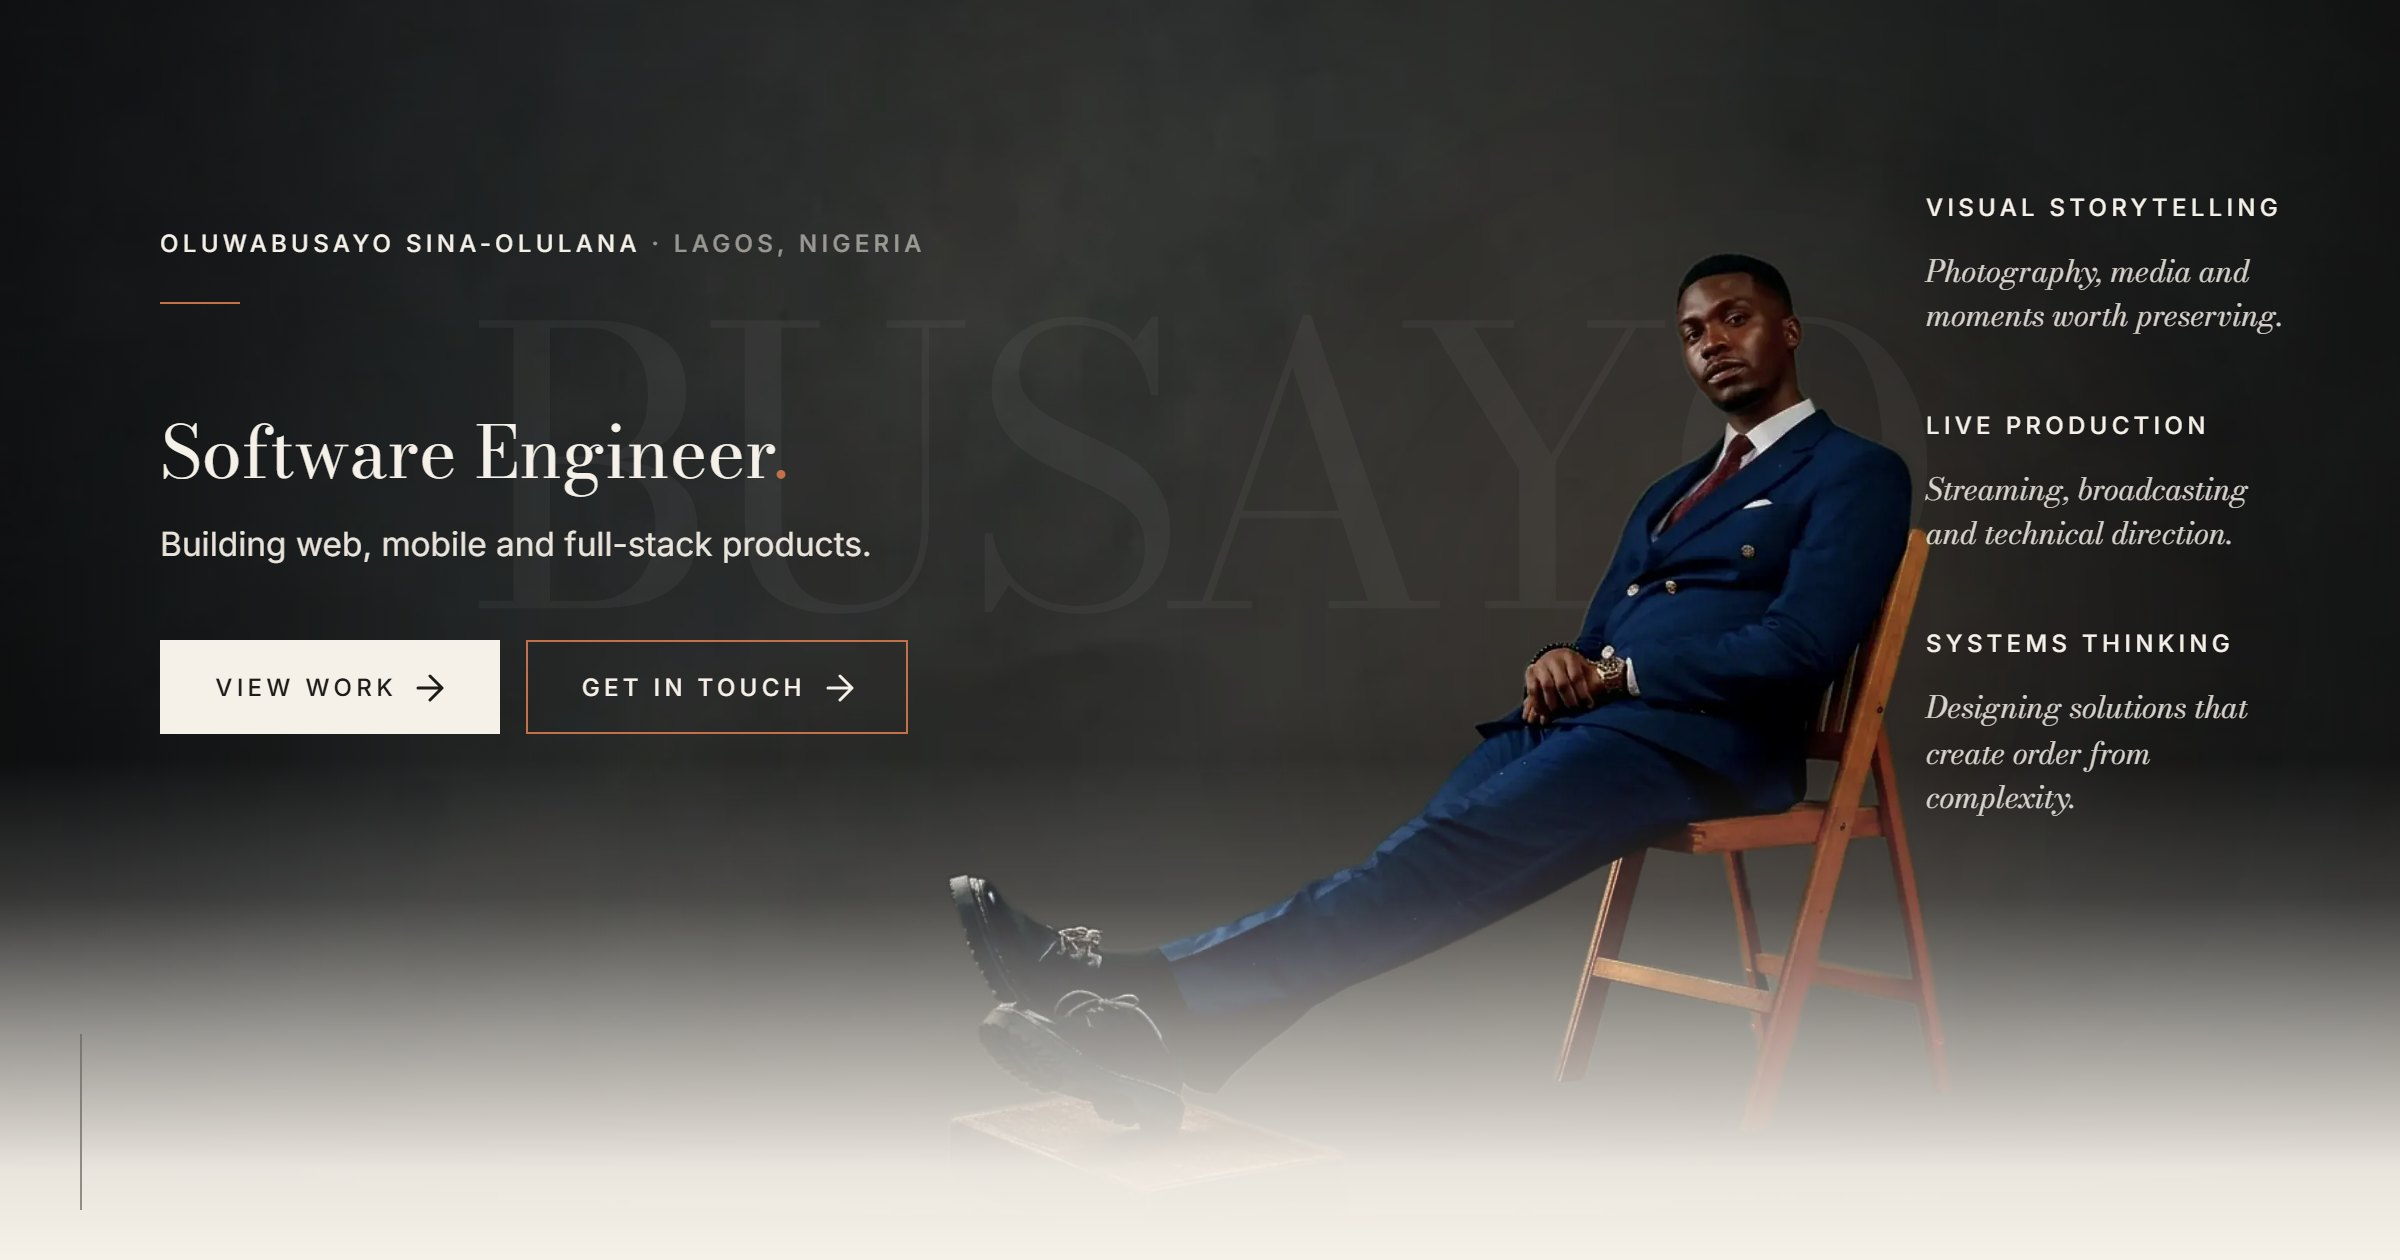
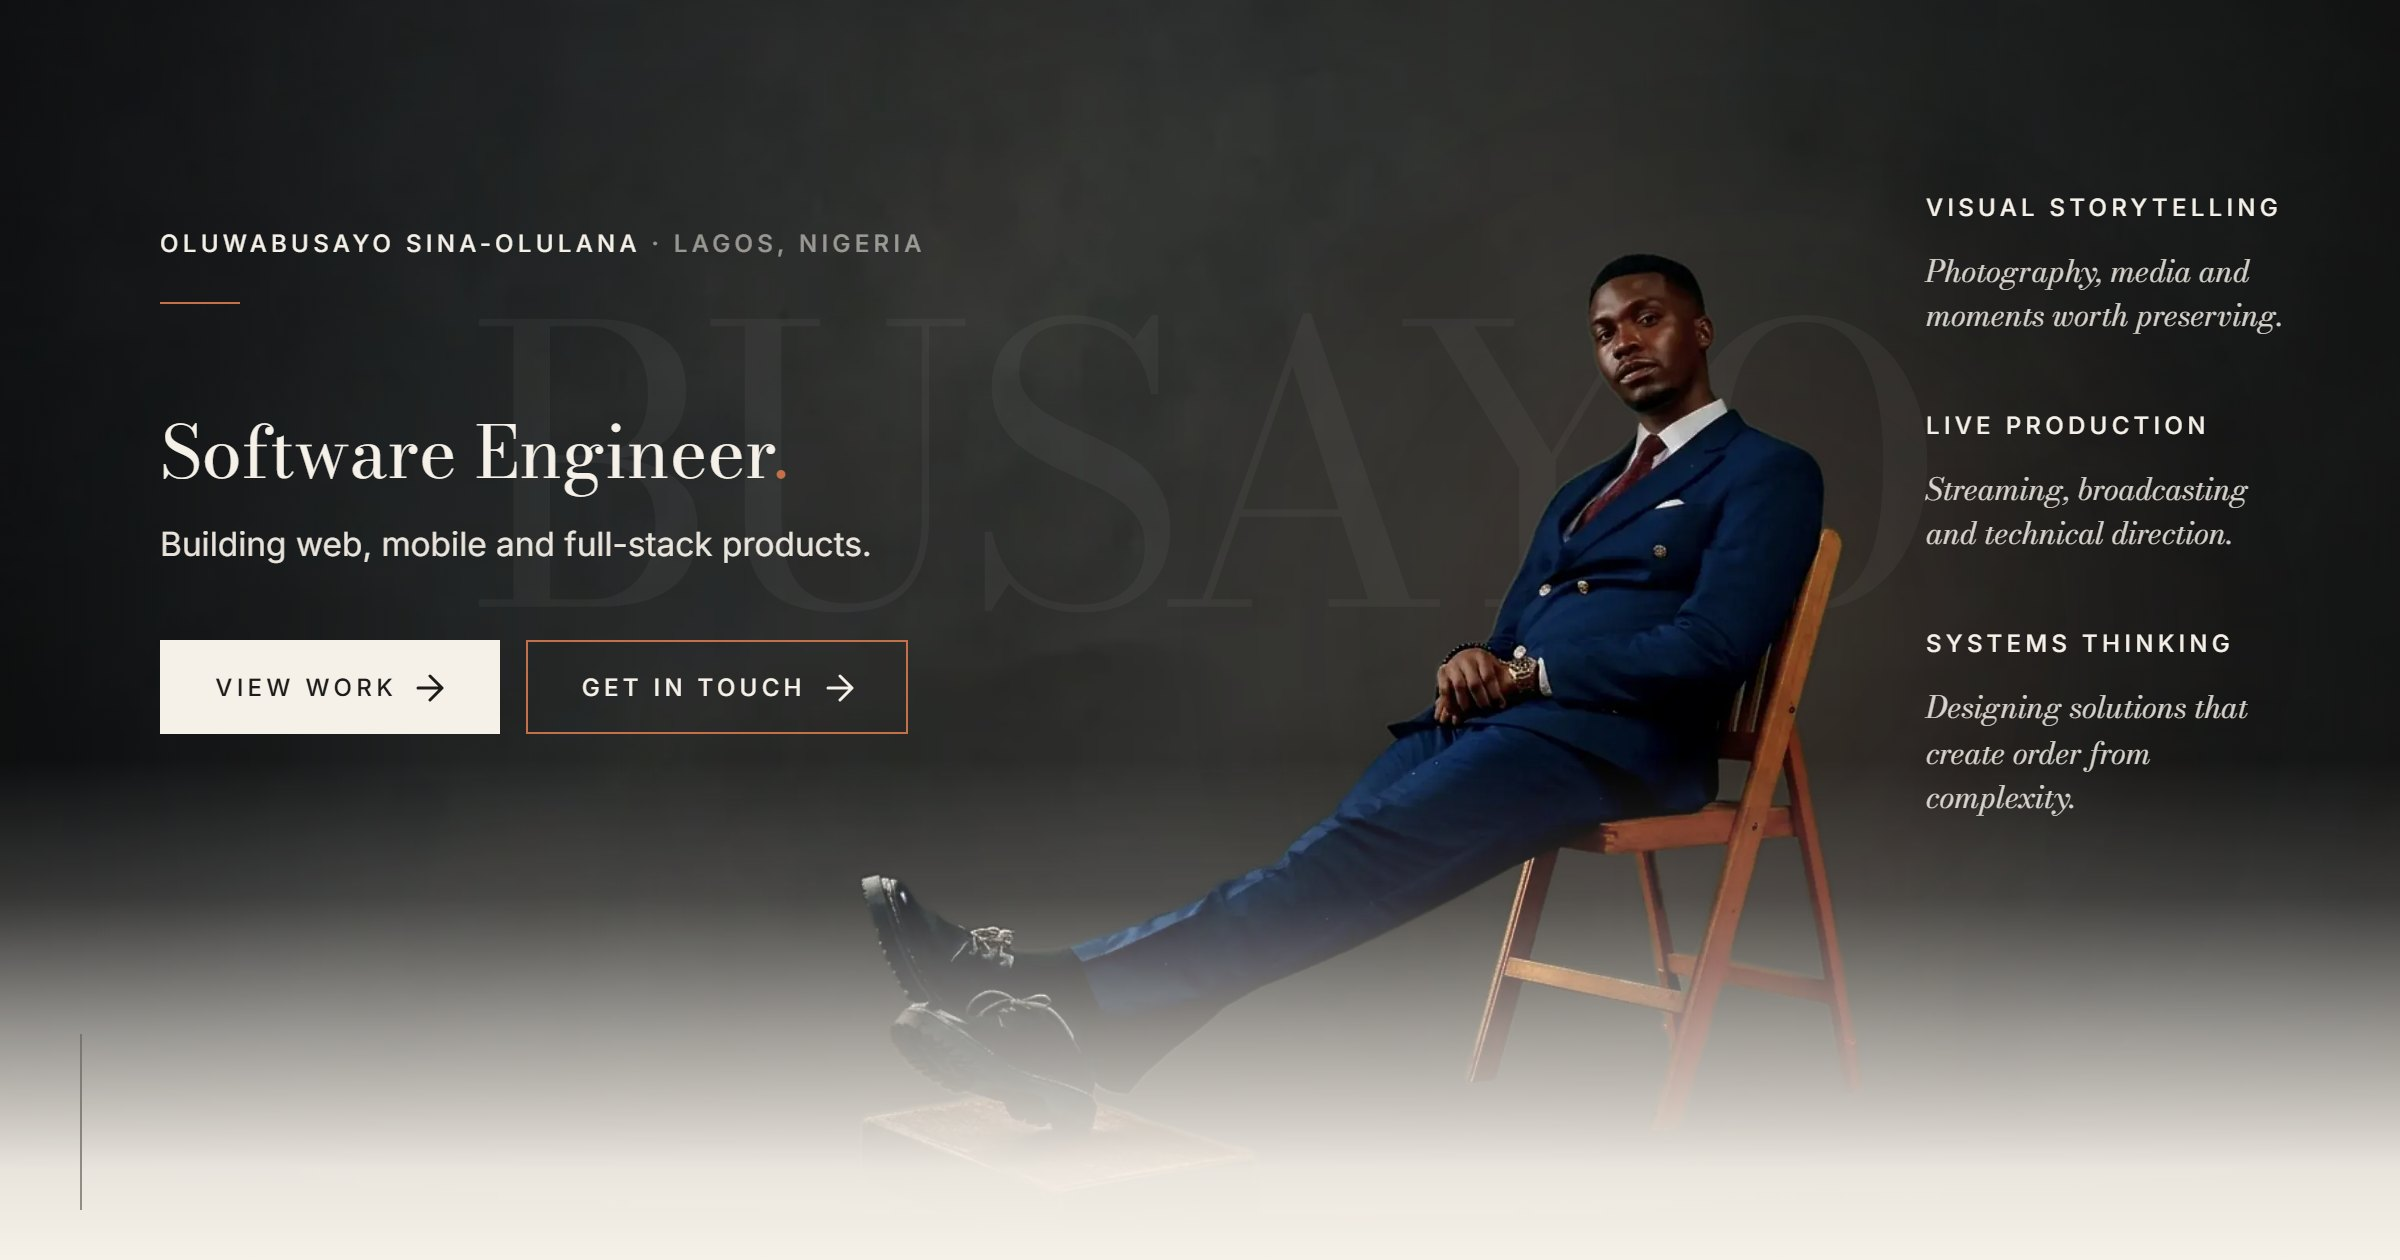
The serif retreats to the hero, and the portrait stops touching the rail
Headings
- About's "Creative by instinct. / Technical by choice." and Beyond Code's
  "Tell stories, solve problems..." move to Inter, at Busayo's word.
- Contact's follows, which he did not ask for and which the heading test
  demanded: with two of the three in the sans, leaving the third in the
  display serif put the page straight back to two treatments for one job —
  the exact thing fixed on 1 Nov. The test failed on the next run and named
  all three shapes.
- What is left of the display face: the hero headline, the BUSAYO
  watermark, the hero's italic callouts, and the HO. wordmark. That is a
  better rule than the one it replaces — the serif is the signature, and
  everything read rather than looked at is Inter.

The portrait
- 44px further left. Measured against the editorial rail, its right edge
  was OVER the rail by 9px at 1270 and 2px at 1366, with 39px of clearance
  at 1920 — no gap at all at the two widths this site is actually read at.
- Now 35px at 1270, 42px at 1366, 83px at 1920.

docs/PLAN.md
- The six open items are written down as their own table: no link on two of
  seven projects, lopsided case-study depth, four single-screenshot
  studies, no numbers on six of seven labels, nothing a stranger can
  verify, and three sections that announce themselves twice while three do
  it once. All of them Busayo's call, all raised and measured rather than
  missed.

63 tests, axe clean, navbar passes all seven surfaces, zero overflow at
[…]

Changed region(s): [[0.3438, 0.1857, 0.8125, 0.8048]]

diff --git a/src/components/sections/Contact.tsx b/src/components/sections/Contact.tsx
@@ -104,7 +104,20 @@ export default function Contact() {
             /* regular, like the hero and the other two section headings */
             className="leading-tight mb-6"
             style={{
-              fontFamily: "var(--font-playfair)",
+              /*
+                Inter, with the other two. Busayo moved About and Beyond Code
+                to the sans on 2 Nov; leaving this one in the display serif
+                would have put the page straight back to two treatments for
+                one job, which is what the heading test exists to refuse —
+                and it did refuse it, on the next run.
+
+                What remains of the serif is the hero's headline, the BUSAYO
+                watermark, the hero's italic callouts and the HO. wordmark.
+                That is a rule worth having: the display face is the
+                signature, and everything that is read rather than seen is
+                Inter.
+              */
+              fontFamily: "var(--font-inter)",
               color: "var(--cream)",
               /*
                 Smaller than the headline it replaced, and with no forced

diff --git a/src/components/sections/Hero.tsx b/src/components/sections/Hero.tsx
@@ -301,7 +301,16 @@ export default function Hero() {
             corner instead of sitting on the copy.
           */
           width: "clamp(12rem, min(max(44.45vw, 26vh), 80vh), 76rem)",
-          right: "clamp(-1rem, calc(27.14vw - 6.44rem), 38rem)",
+          /*
+            Shifted 44px further left than the line this used to draw.
+
+            Measured against the editorial rail: the portrait's right edge
+            was OVER it by 9px at 1270 and by 2px at 1366, and had only 39px
+            of clearance at 1920. There was no gap to speak of at the two
+            widths this site is actually read at — the portrait and the
+            callouts were touching.
+          */
+          right: "clamp(-1rem, calc(27.14vw - 3.69rem), 38rem)",
         }}
       >
         <Image

diff --git a/src/components/sections/About.tsx b/src/components/sections/About.tsx
@@ -95,7 +95,7 @@ export default function About() {
                 bold on top of it, so three sections announced themselves
                 three different ways at exactly the same size.
               */
-              fontFamily: "var(--font-playfair)",
+              fontFamily: "var(--font-inter)",
               color: "var(--charcoal)",
               fontSize: "var(--t-h2)",
               letterSpacing: "var(--track-display)",

diff --git a/src/components/sections/BeyondCode.tsx b/src/components/sections/BeyondCode.tsx
@@ -46,7 +46,7 @@ export default function BeyondCode() {
         */}
         <h2
           style={{
-            fontFamily: "var(--font-playfair)",
+            fontFamily: "var(--font-inter)",
             fontSize: "var(--t-h2)",
             color: "var(--cream)",
             marginBottom: "18px",

diff --git a/docs/PLAN.md b/docs/PLAN.md
@@ -7,7 +7,7 @@ Dates are WAT (UTC+1). Busayo's screen is **1270 x 593 CSS pixels** — a 1920
 monitor at Windows 150% scaling — and that is the width everything here is
 checked at, not 1920.
 
-Last updated: 1 November 2026. Phases 1-5 done except the project-label numbers (parked) and finding 14 (needs real material). Phase 6 is ship, and Busayo has not released the push.
+Last updated: 2 November 2026 (Monday). Phases 1-6 done bar the ship; six items open, all Busayo's call, listed above. Phases 1-5 done except the project-label numbers (parked) and finding 14 (needs real material). Phase 6 is ship, and Busayo has not released the push.
 
 ---
 
@@ -310,12 +310,35 @@ Design calls, so they wait for Busayo.
 3. Re-run `e2e/links.mjs` against the deployed URL rather than localhost.
 4. Only then does the link go to anybody.
 
+---
+
+## Still open (2 November 2026)
+
+Everything here is Busayo's call, and all of it was raised, measured and
+left deliberately rather than missed. Carried forward so the next reader of
+this file does not have to re-find any of it.
+
+| # | Open item | What is known | Why it is not done |
+|---|---|---|---|
+| A | **Two of seven projects offer no way to see the real thing.** Zowasel Marketplace and HNG Connect have neither a live URL nor a repository. | The marketplace is the largest piece of work on the site. Its storefront is public at v2.zowasel.com/marketplace; the repository is private. | Linking a work system from a personal portfolio is Busayo's decision, not a technical one. |
+| B | **Case-study depth is lopsided.** Sections per project: 10, 4, 4, 2, 2, 2, 2. | Zowasel Marketplace carries ten; four projects carry two (Story and Highlights). A reader who opens CHEDCOM straight after the marketplace meets a far thinner page. | The writing has to come from him. |
+| C | **Four of seven case studies show a single screenshot.** CHEDCOM, HNG Connect, Audiophile, DLMS — no dots, no arrows. | The dialog already supports many; the images do not exist. | Needs assets. |
+| D | **Six of seven project labels carry no number.** Only Framez has one ("Built in 72 Hours"); the rest are categories — Current Work, Shipped, Ongoing Work, Team Collaboration, Premium Ecommerce, Final Year Project. | Apple's rule is that every claim carries a figure. Framez currently reads as more impressive than the marketplace purely because "72 hours" is a number. | Parked by Busayo, 31 Oct: "forget about the numbers on the marketplace for now". The figures must come from him; none will be invented. |
+| E | **Nothing on the page can be verified by a stranger** (finding 14). No reference, no named colleague, no quote. The marquee shows tools, not people. | — | Cannot be closed by writing something. Needs real material, and inventing it is the exact problem already waiting to be cleaned up on the Zowasel website. |
+| F | **Three sections announce themselves twice, three once.** About, Beyond Code and Contact have an eyebrow and a heading; the tech marquee, Selected Work and Experience have only an eyebrow. | Not a bug. It is the one remaining break in an entry pattern that is otherwise consistent across the page. | A structural design decision. |
+
+
 ## Decisions log
 
 Newest first.
 
 | Date | Decision | Why |
 | --- | --- | --- |
+| 2026-11-02 | **The display serif retreats to the hero and the wordmark.** About's and Beyond Code's headings move to Inter at Busayo's word, and Contact's follows — leaving it in the serif would have put the page straight back to two treatments for one job, which is what the heading test exists to refuse, and it did refuse it on the next run. What remains of Bodoni: the hero headline, the BUSAYO watermark, the hero's italic callouts, and the HO. wordmark. | That is a cleaner rule than the one it replaces. The display face is the signature; everything read rather than looked at is Inter. It is also closer to what Apple actually does — one family carrying the page, a distinct face reserved for the thing that has to be remembered. |
+| 2026-11-02 | **The portrait steps 44px further left, off the editorial rail.** | Measured: the portrait's right edge was **over** the rail by 9px at 1270 and 2px at 1366, with only 39px of clearance at 1920 — no gap to speak of at the two widths this site is actually read at. It is 35px at 1270, 42px at 1366 and 83px at 1920 now. Busayo, 2 Nov: "move it to the left a little bit so that there can be some padding between it and the editorial section". |
+| 2026-11-02 | **The case study dialog, rebuilt — and an accordion built and reverted.** The title was the display serif at 33px over 13.6px prose, reading as a magazine cover stapled to a document; it is Inter bold at --t-h2. The head now has three steps, --t-h2 / --t-body / --t-caption, where title, description and stack had been 33 / 13.6 / 13.6 — two of the three set identically. The eyebrow above the title is gone, the stack is a line rather than nine bordered chips, the links are gone (they live on the card and in the rail caption), and the prose matches a row in Where I've Worked exactly: caption size at 1.75. **The screenshot controls moved off the picture and under it**, because these are screenshots of websites and the Zowasel storefront has a carousel of its own — the dialog's left arrow sat 15px from the storefront's left arrow and the two were indistinguishable. The media mat is the dialog's own cream instead of a grey tint, so a landscape shot in a near-square pane reads as a mount rather than two grey bands. | Busayo's evaluation pass, every item his. The accordion was my misreading of "similar to what we have for the experience part" — he meant the typography, not the mechanism — and was reverted at his word; the pinned head and scrolling body it arrived with are kept, so the title stays put while the writing moves. Three defects the tests caught on the way, each real: the stack line at 80% warm-grey composited to about 3.3:1 on cream; moving it to label size made it the only thing on the site at label size and not medium, which the type test refused and was right to; and `scrollable-region-focusable` for the **third** time — the rail when its cards became images, this pane when it first learned to scroll, and the body once the links moved out and the headings stopped being buttons. A scroll container holding only prose is never keyboard-reachable by accident. |
+| 2026-11-02 | **The rail shows its cue instead of describing it.** "Scroll sideways — whichever project reaches the middle comes forward" is replaced by two keycaps where there is a pointer and a swipe indicator where there is not, with a screen-reader line behind it. | Busayo, 2 Nov: "that text should sha go". A reader does not want to be told how the rail works; they want to know that it moves. The arrows shown are the keys that actually work, so it is a legend and not a decoration, and the travelling dot stops under prefers-reduced-motion with everything else. |
+| 2026-11-02 | **A real bug in the accessibility helper.** `revealEverything` scrolled the whole page to trigger every reveal and then scrolled **back to the top**, which put the last Where I've Worked entries below the fold again, part-way through their staggered fade. axe reported them as contrast failures — which, at that instant, they were. It no longer rewinds, and it waits for the entries themselves rather than for a duration that happened to be long enough on two devices out of three. | Worth recording because it is the failure mode of every audit on this site: the measurement was wrong in the tool's favour, not the page's. Of the five such mistakes made in this work — two in the navbar sampler, one in the og check, one here, one in the type test's HTML-entity match — four flattered the result. |
 | 2026-11-01 | **The type rules, fixed before the fonts.** 18 distinct type styles became 12. Three section headings that rendered at the same size in three treatments — Inter 700, Playfair 400, Playfair 700 — are all the display serif at regular, like the hero. Four weights became three tokens. Twelve uppercase labels had never declared a weight and fell to 400 beside neighbours at 500; two more sat at 700; and three section eyebrows were reaching 12px through Tailwind's `text-xs` rather than the token, which lands on the same pixel and is exactly why the size test never saw them. | Busayo, 1 Nov: "fix the rules / then we test bodoni". The order mattered: the size scale had been closed since 31 Oct and every one of those offenders passed it, because they agreed about the one thing that was already policed. `e2e/tokens.spec.ts` gained the two tests that would have caught them — only two families and three weights, every 12px label medium, and every h2 set the same way. |
 | 2026-11-01 | **Playfair Display becomes Bodoni Moda — on trial.** | Playfair is a Scotch Roman, not a Didone: lower contrast, blunter serifs. The reference this site has always reached for is a Vogue masthead, which **is** Didone, so the category was wrong before the font was. Bodoni Moda is an actual Didone and carries a real optical-size axis — the same move Apple makes with SF Pro Display and SF Pro Text, one family that redraws itself for the size instead of a second family hired to cover the small end. It matters because the same face has to work at the 203px watermark and at a 15px italic caption; measured, the display cut frays at 15px and the text cut does not. **The CSS variable stays `--font-playfair` on purpose**: nineteen call sites read it, so reverting is a one-file diff and a single `git revert`, which is the condition Busayo set — "if bodoni doesnt work we revert to playfair". The family test now reads both faces out of the CSS variables rather than naming them, so a swap does not also mean editing the test. |
 | 2026-10-31 | **One dark, and a second cream.** Beyond Code's `#141414` joins Contact on `--charcoal`, and `--charcoal-deep` is deleted rather than kept as a token nothing uses — the two were 8 points apart, too close to read as a choice and too far to be the same colour, and the page now ends as one continuous dark act instead of showing a faint line that looked like a mistake. For the middle of the page, `--cream-deep: #ece8e0` is nine points below `--cream`, and the four cream sections alternate: About cream, the tech marquee deep, Selected Work cream, Experience deep. | Findings 9 and 10, and Busayo delegated both ("proceed with phase 5"). 2,700px of one unbroken surface gave a reader no sense of having moved through the middle of the page; alternating two near-identical warm whites is the oldest trick there is and Apple runs it on every page. Deliberately small: far enough apart to register as a change of room, close enough that neither reads as a different design. **About had to stay `--cream`** — the hero's gradient terminates on it, and tinting About would have put back the seam closed on 30 Oct. The navbar was re-measured over both new surfaces and still passes everywhere, 5.90–9.52:1 on the links. |
